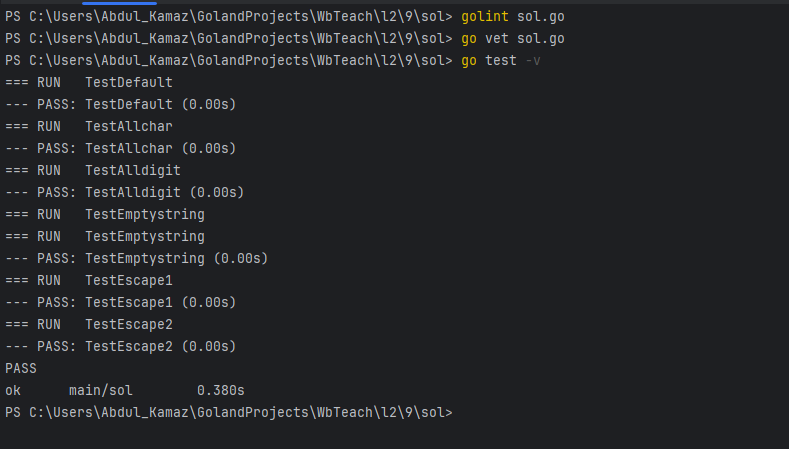
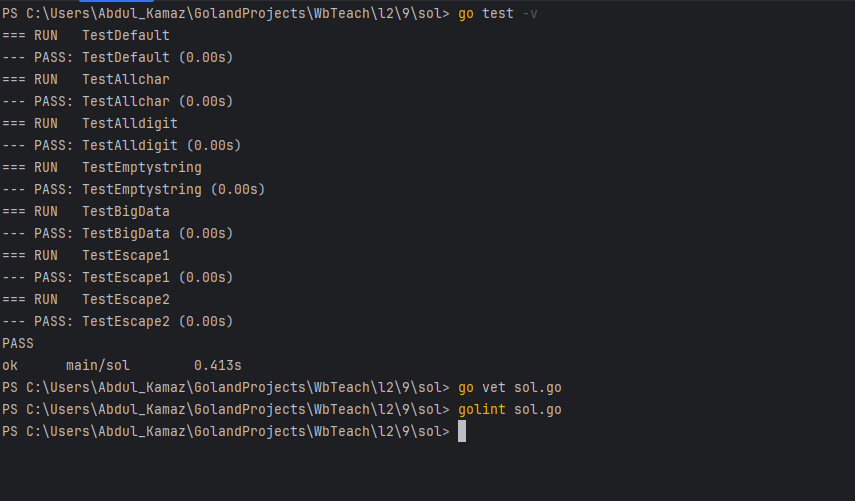
Init

Changed region(s): [[0.0, 0.0, 0.73, 0.9354]]

diff --git a/L2/9/sol/sol_test.go b/L2/9/sol/sol_test.go
@@ -44,6 +44,16 @@ func TestEmptystring(t *testing.T) {
 		t.Error("Результат не совпадает с ожидаемым!")
 	}
 }
+func TestBigData(t *testing.T) {
+	res, err := Stringdecoder("a10bc11")
+	if err != nil {
+		t.Error(err)
+	}
+	exp := "aaaaaaaaaabccccccccccc"
+	if res != exp {
+		t.Error("Результат не совпадает с ожидаемым!")
+	}
+}
 func TestEscape1(t *testing.T) {
 	res, err := Stringdecoder("qwe\\4\\5")
 	if err != nil {
